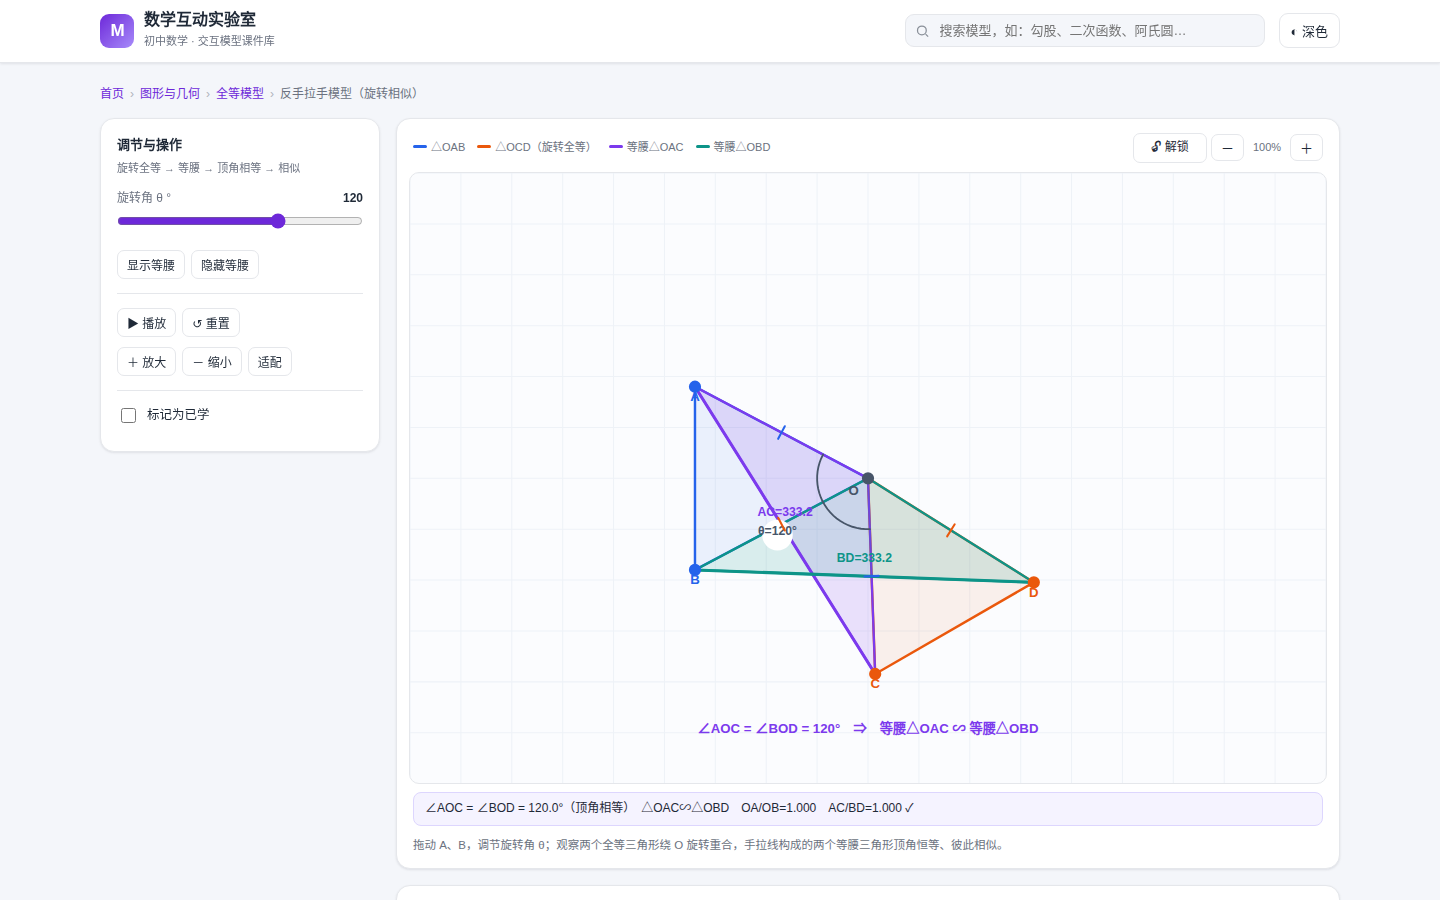
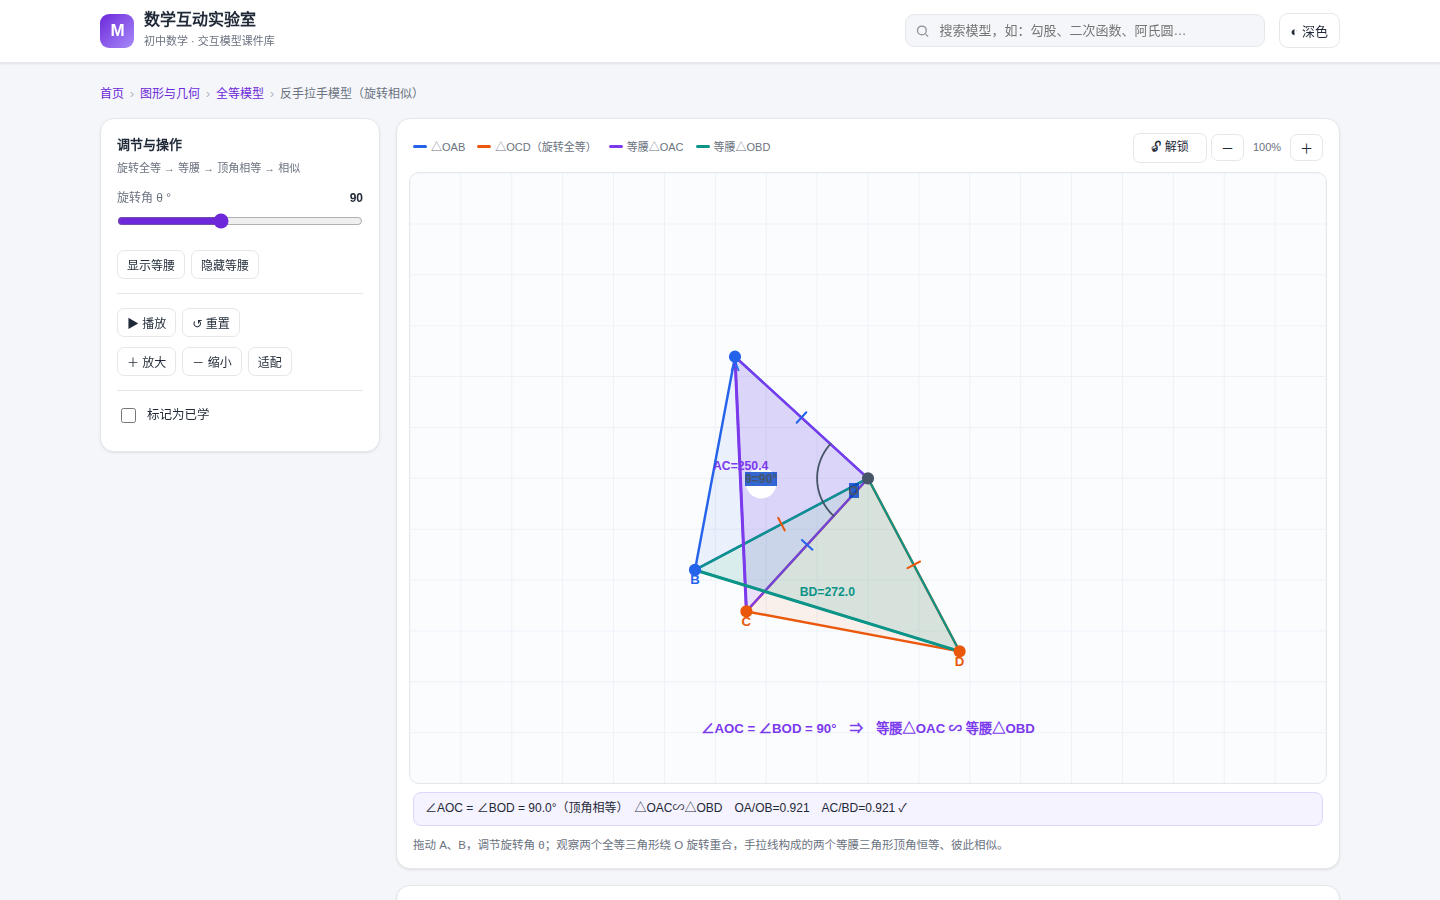
fix: 修正画布锁定语义——锁定仅禁画布平移/缩放，节点仍可拖动
- 根因：pointerdown 开头 locked 时直接 return，一刀切拦截了节点手柄的按下事件
- pointerdown：命中手柄时无论锁定与否均放行拖动；仅画布空白区平移受锁定限制
- pointermove：pan 分支加锁保险；空闲态锁定画布用光标区分节点(grab)/画布(not-allowed)
- setLocked：统一清 drag/pan 与内联光标，解锁后交回 CSS/动态逻辑
- 按钮 title 澄清「锁定画布平移与缩放（节点仍可拖动）」
- 重建 dist/index.html

验证：locktest v2 ALL PASS（未锁定平移/缩放/拖点全正常；锁定时节点可拖、画布平移/侧栏缩放/滚轮全禁；解锁全部恢复；实例间独立）；62 模型渲染零错误；拖动诊断零报错；反手拉手相似比 OA/OB=AC/BD 三态相等；截图确认按钮高亮无重叠

diff --git a/dist/index.html b/dist/index.html
@@ -441,10 +441,11 @@ button{font-family:inherit}
     if(this.locked)return; // 锁定后禁止复位视图（缩放）
     var b=this.baseView;this.view={x:b.x,y:b.y,w:b.w,h:b.h};this.applyView();
   };
-  /* 画布锁定开关：锁定时禁止拖动、拖点与缩放；返回当前锁定态 */
+  /* 画布锁定开关：仅禁止画布平移与缩放；节点/点位仍可拖动编辑。返回当前锁定态 */
   Board.prototype.setLocked=function(v){
     this.locked=!!v;
-    if(this.locked){this.drag=null;this.pan=null;svgCursor(this.svg,'');}
+    this.drag=null;this.pan=null;
+    svgCursor(this.svg,''); // 清除内联光标，交给 CSS / pointermove 动态接管
     this.svg.classList.toggle('mh-canvas-locked',this.locked);
     return this.locked;
   };
@@ -457,7 +458,6 @@ button{font-family:inherit}
       self.zoomAt(e.deltaY<0?1.16:1/1.16,self.toView(e));
     },{passive:false});
     svg.addEventListener('pointerdown',function(e){
-      if(self.locked)return; // 锁定后禁止拖动（平移与拖点）
       var w=self.toWorld(e);
       var best=null,bd=1e9;
       // _handles 由最近一次 draw() 收集，随状态更新保持最新
@@ -465,10 +465,12 @@ button{font-family:inherit}
         var d=dist(w,h.p);if(d<bd){bd=d;best=h;}
       });
       if(best&&bd<(best.r||16)){
+        // 节点/点位：锁定状态下依然可选中并拖动（锁定只针对画布本身）
         self.drag=best.name;
         svg.setPointerCapture(e.pointerId);svg.style.cursor='grabbing';
         if(self.model.onDragStart)self.model.onDragStart(self,best.name,w);
-      }else{
+      }else if(!self.locked){
+        // 画布空白区平移：仅未锁定时允许
         var p=self.toView(e);
         self.pan={base:{x:self.view.x,y:self.view.y},anchor:p};
         svg.setPointerCapture(e.pointerId);svg.style.cursor='grabbing';
@@ -476,16 +478,28 @@ button{font-family:inherit}
     });
     svg.addEventListener('pointermove',function(e){
       if(self.pan){
-        var p=self.toView(e),v=self.view;
-        v.x=self.pan.base.x-(p.x-self.pan.anchor.x);
-        v.y=self.pan.base.y-(p.y-self.pan.anchor.y);
-        self.applyView();return;
+        if(!self.locked){
+          var p=self.toView(e),v=self.view;
+          v.x=self.pan.base.x-(p.x-self.pan.anchor.x);
+          v.y=self.pan.base.y-(p.y-self.pan.anchor.y);
+          self.applyView();
+        }
+        return;
       }
       if(self.drag){
         var w=self.toWorld(e);
         if(self.model.onDrag)self.model.onDrag(self,self.drag,w);
         else if(self.state[self.drag])self.state[self.drag]=w;
         self.draw(); // 拖动后重绘：否则 state 变了但画面/读数不更新
+        return;
+      }
+      // 空闲态：锁定画布时用光标区分「节点可拖(grab) / 画布不可平移(not-allowed)」
+      if(self.locked){
+        var hw=self.toWorld(e),hover=false;
+        (self._handles||[]).forEach(function(h){
+          if(dist(hw,h.p)<(h.r||16))hover=true;
+        });
+        svgCursor(svg,hover?'grab':'not-allowed');
       }
     });
     function end(e){
@@ -3970,7 +3984,7 @@ button{font-family:inherit}
                 return '<span><i style="border-color:'+l.c+'"></i>'+l.t+'</span>';
               }).join('')+'</div>'+
               '<div class="mh-zoom">'+
-                '<button id="mh-lock" class="mh-lock" aria-pressed="false" title="锁定画布：禁止拖动与缩放">🔓 解锁</button>'+
+                '<button id="mh-lock" class="mh-lock" aria-pressed="false" title="锁定画布平移与缩放（节点仍可拖动）">🔓 解锁</button>'+
                 '<button id="mh-zo">－</button><span class="zlevel" data-mh-z="mh-svg">100%</span><button id="mh-zi">＋</button>'+
               '</div>'+
             '</div>'+
@@ -4009,7 +4023,7 @@ button{font-family:inherit}
       var locked=currentBoard.setLocked(!currentBoard.locked);
       lockBtn.textContent=locked?'🔒 已锁定':'🔓 解锁';
       lockBtn.setAttribute('aria-pressed',locked?'true':'false');
-      lockBtn.title=locked?'点击解锁，恢复拖动与缩放':'锁定画布：禁止拖动与缩放';
+      lockBtn.title=locked?'点击解锁，恢复画布平移与缩放':'锁定画布平移与缩放（节点仍可拖动）';
     };
     document.getElementById('mh-done').onchange=function(e){
       done[m.id]=e.target.checked;store.set('done',done);

diff --git a/src/engine.js b/src/engine.js
@@ -182,10 +182,11 @@
     if(this.locked)return; // 锁定后禁止复位视图（缩放）
     var b=this.baseView;this.view={x:b.x,y:b.y,w:b.w,h:b.h};this.applyView();
   };
-  /* 画布锁定开关：锁定时禁止拖动、拖点与缩放；返回当前锁定态 */
+  /* 画布锁定开关：仅禁止画布平移与缩放；节点/点位仍可拖动编辑。返回当前锁定态 */
   Board.prototype.setLocked=function(v){
     this.locked=!!v;
-    if(this.locked){this.drag=null;this.pan=null;svgCursor(this.svg,'');}
+    this.drag=null;this.pan=null;
+    svgCursor(this.svg,''); // 清除内联光标，交给 CSS / pointermove 动态接管
     this.svg.classList.toggle('mh-canvas-locked',this.locked);
     return this.locked;
   };
@@ -198,7 +199,6 @@
       self.zoomAt(e.deltaY<0?1.16:1/1.16,self.toView(e));
     },{passive:false});
     svg.addEventListener('pointerdown',function(e){
-      if(self.locked)return; // 锁定后禁止拖动（平移与拖点）
       var w=self.toWorld(e);
       var best=null,bd=1e9;
       // _handles 由最近一次 draw() 收集，随状态更新保持最新
@@ -206,10 +206,12 @@
         var d=dist(w,h.p);if(d<bd){bd=d;best=h;}
       });
       if(best&&bd<(best.r||16)){
+        // 节点/点位：锁定状态下依然可选中并拖动（锁定只针对画布本身）
         self.drag=best.name;
         svg.setPointerCapture(e.pointerId);svg.style.cursor='grabbing';
         if(self.model.onDragStart)self.model.onDragStart(self,best.name,w);
-      }else{
+      }else if(!self.locked){
+        // 画布空白区平移：仅未锁定时允许
         var p=self.toView(e);
         self.pan={base:{x:self.view.x,y:self.view.y},anchor:p};
         svg.setPointerCapture(e.pointerId);svg.style.cursor='grabbing';
@@ -217,16 +219,28 @@
     });
     svg.addEventListener('pointermove',function(e){
       if(self.pan){
-        var p=self.toView(e),v=self.view;
-        v.x=self.pan.base.x-(p.x-self.pan.anchor.x);
-        v.y=self.pan.base.y-(p.y-self.pan.anchor.y);
-        self.applyView();return;
+        if(!self.locked){
+          var p=self.toView(e),v=self.view;
+          v.x=self.pan.base.x-(p.x-self.pan.anchor.x);
+          v.y=self.pan.base.y-(p.y-self.pan.anchor.y);
+          self.applyView();
+        }
+        return;
       }
       if(self.drag){
         var w=self.toWorld(e);
         if(self.model.onDrag)self.model.onDrag(self,self.drag,w);
         else if(self.state[self.drag])self.state[self.drag]=w;
         self.draw(); // 拖动后重绘：否则 state 变了但画面/读数不更新
+        return;
+      }
+      // 空闲态：锁定画布时用光标区分「节点可拖(grab) / 画布不可平移(not-allowed)」
+      if(self.locked){
+        var hw=self.toWorld(e),hover=false;
+        (self._handles||[]).forEach(function(h){
+          if(dist(hw,h.p)<(h.r||16))hover=true;
+        });
+        svgCursor(svg,hover?'grab':'not-allowed');
       }
     });
     function end(e){

diff --git a/src/app.js b/src/app.js
@@ -242,7 +242,7 @@
                 return '<span><i style="border-color:'+l.c+'"></i>'+l.t+'</span>';
               }).join('')+'</div>'+
               '<div class="mh-zoom">'+
-                '<button id="mh-lock" class="mh-lock" aria-pressed="false" title="锁定画布：禁止拖动与缩放">🔓 解锁</button>'+
+                '<button id="mh-lock" class="mh-lock" aria-pressed="false" title="锁定画布平移与缩放（节点仍可拖动）">🔓 解锁</button>'+
                 '<button id="mh-zo">－</button><span class="zlevel" data-mh-z="mh-svg">100%</span><button id="mh-zi">＋</button>'+
               '</div>'+
             '</div>'+
@@ -281,7 +281,7 @@
       var locked=currentBoard.setLocked(!currentBoard.locked);
       lockBtn.textContent=locked?'🔒 已锁定':'🔓 解锁';
       lockBtn.setAttribute('aria-pressed',locked?'true':'false');
-      lockBtn.title=locked?'点击解锁，恢复拖动与缩放':'锁定画布：禁止拖动与缩放';
+      lockBtn.title=locked?'点击解锁，恢复画布平移与缩放':'锁定画布平移与缩放（节点仍可拖动）';
     };
     document.getElementById('mh-done').onchange=function(e){
       done[m.id]=e.target.checked;store.set('done',done);
